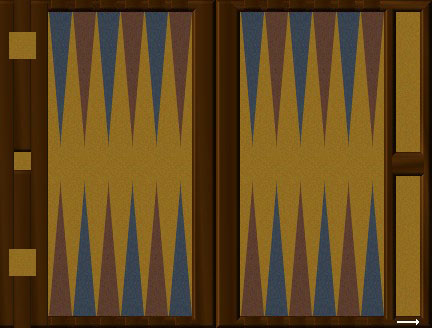
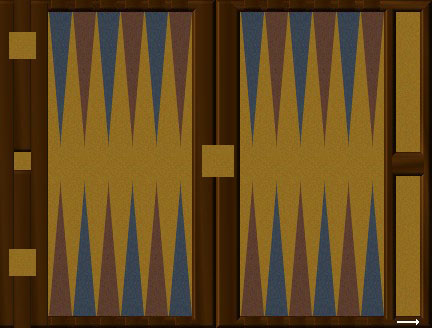
added match length in middle of board. commented previous code

Changed region(s): [[0.4514, 0.4268, 0.5417, 0.5488]]

diff --git a/InformationPanel.java b/InformationPanel.java
@@ -23,7 +23,7 @@ public class InformationPanel extends BorderPane
 	private GridPane grid = new GridPane();
 	private int gridSize = 0;
 	private ScrollBar scrollBar = new ScrollBar();
-	private Label[] labels = new Label[500];
+	private Label[] labels = new Label[1000];//stores all the messages that are printed to the panel
 
 	public InformationPanel() {
 
@@ -34,6 +34,7 @@ public class InformationPanel extends BorderPane
 		pane.setStyle("-fx-background-color:Wheat"); //background colour is set
 		pane.getChildren( ).addAll( canvas, grid, scrollBar);
 
+		//scrollbar used for navigating info panel when the number of lines of texts exceeds size of the panel
         scrollBar.setLayoutX(canvas.getWidth()-scrollBar.getWidth());
         scrollBar.setMin(0);
         scrollBar.setOrientation(Orientation.VERTICAL);
@@ -41,7 +42,9 @@ public class InformationPanel extends BorderPane
         scrollBar.setMax(656);
         scrollBar.setValue(0);
 
+        //scrollbar call
         scrollBar.valueProperty().addListener(e -> {
+            //only entered when more text than panel size
             if(gridSize < 33);
             else{
                 removeLabels();
@@ -53,8 +56,8 @@ public class InformationPanel extends BorderPane
 		setCenter(pane);
 		}
 	
-	/**addText method takes the text from the user and outputs it to the display using 
-	 * the position parameter to determine row to output the string
+	/**addText method takes the text from the user and outputs it to the top of the display
+	 * position is used for asking for the players' names
 	 * */
 	public void addText(int position, String text){
 
@@ -73,26 +76,12 @@ public class InformationPanel extends BorderPane
 		displayLabels();
 
         System.out.println(scrollBar.getValue());
-
-		/*GridPane.setConstraints(label, 0, position);
-		grid.getChildren().addAll(label);*/
-
-
-		//below was an attempt to style the code, will be revisited next sprint so it hasn't been deleted, just commented out
-		
-		// set the constraints 31 is the number i need to remember sorry ola :p
-		//Label label3 = new Label(text);
-		//Label label2 = new Label(" It is the next player's turn...Enter how many moves");
-		// setting the styles of the text being shown on the display panel
-        //label3.setStyle("-fx-background-color:Wheat; -fx-text-fill:Black; -fx-font-size:20");
-        //label2.setStyle("-fx-background-color:Yellow; -fx-text-fill:Black; -fx-font-size:20");
-
-		//GridPane.setConstraints(label2, 1, position);
-//		GridPane.setConstraint(label2, 1, position);
-		// add the child to the grid
 	}
 
+	//used to display all the labels on the panel with newest at the top and oldest at the bottom
+    //if there are more lines than the size of the panel the code then reacts to the scrollbar position
 	public void displayLabels(){
+	    //prints messaged for board with less labels than panel size
 	    if(gridSize < 31) {
             int numOfLabels = gridSize;
             int j = 0;
@@ -104,23 +93,23 @@ public class InformationPanel extends BorderPane
             }
         }
 
+	    //else statement is used to react to scrollbar
 	    else{
-            System.out.println("scrollbar.gerValue: " + scrollBar.getValue()/scrollBar.getMax());
+
             int startPoint, moveRight, moveLeft;
             double startPointDouble;
             startPointDouble = 1 - (scrollBar.getValue() / scrollBar.getMax());
             startPointDouble *= gridSize;
-            startPoint = (int) Math.round(startPointDouble);
+            startPoint = (int) Math.round(startPointDouble); //is a position in gridsize that corresponds to the position
+            //of the scrollbar i.e. if scrollbar is in the middle and gridsize was 50, startPoint would be 25
 
             moveLeft = startPoint - 15;
             moveRight = startPoint + 15;
             if (moveLeft < 0) {
                 moveRight += +(moveLeft * -1);
-                moveLeft = 0;
             }
 
             if (moveRight > gridSize - 1) {
-                moveLeft -= gridSize - moveRight;
                 moveRight = gridSize - 1;
             }
 

diff --git a/Board.java b/Board.java
@@ -45,7 +45,6 @@ import javafx.scene.paint.Color;
 
         //following grids are used for positioning
         private GridPane doubleCubeGrid = new GridPane();
-        private GridPane doubleCubeLabelGrid = new GridPane();
 
         private GridPane player1ScoreGrid = new GridPane();
         private GridPane player1NameGrid = new GridPane();
@@ -61,6 +60,9 @@ import javafx.scene.paint.Color;
 
         private Image doubleCube;
         private ImageView doubleCubeView;
+
+        private GridPane matchNumberGrid = new GridPane();
+        private Label matchNumberVisual = new Label();
 
 
     //label array is used when there's an excess number of pips on a point, 26 are made, one for each position
@@ -99,12 +101,30 @@ import javafx.scene.paint.Color;
         boardInitialize(); //call to method to initialize the board state
         drawNumbers();
 
-        sp.getChildren().addAll(topLeftGrid, topRightGrid, bottomLeftGrid, bottomRightGrid, barGrid, doubleCubeLabelGrid, player1NameGrid, player2NameGrid,
+        sp.getChildren().addAll(topLeftGrid, topRightGrid, bottomLeftGrid, bottomRightGrid, barGrid, player1NameGrid, player2NameGrid, matchNumberGrid,
                 topRightNumbers, topleftNumbers, bottomLeftNumbers, bottomRightNumbers, doubleCubeGrid, player1ScoreGrid, player2ScoreGrid, topBearOffGrid, bottomBearOffGrid);
         setCenter(sp);
     }
 
     private void boardInitialize(){
+
+        //labels used to set match number in center of board
+        Label matchNumberMatch = new Label(" Match");
+        matchNumberMatch.setTextFill(Color.web("white"));
+        Label matchNumberLength = new Label("Number");
+        matchNumberLength.setTextFill(Color.web("white"));
+        matchNumberVisual.setText(" 0");
+        matchNumberVisual.setTextFill(Color.web("black"));
+
+        matchNumberVisual.setStyle("-fx-font: normal bold 50px 'sans-serif' ");
+
+        GridPane.setConstraints(matchNumberMatch, 0, 0);
+        GridPane.setConstraints(matchNumberVisual, 0, 1);
+        GridPane.setConstraints(matchNumberLength, 0, 2);
+
+        matchNumberGrid.setPadding(new Insets(267, 0, 0, 408));
+        matchNumberGrid.setVgap(3);
+        matchNumberGrid.getChildren().addAll(matchNumberLength, matchNumberMatch, matchNumberVisual);
 
         //doubleCube is initialised as the 64 cube
         doubleCube = new Image(getClass().getResourceAsStream("double64.jpg"));
@@ -1073,5 +1093,14 @@ import javafx.scene.paint.Color;
     public void clearBearOff(){
             topBearOffGrid.getChildren().clear();
             bottomBearOffGrid.getChildren().clear();
-        }
+    }
+
+    //sets match number
+    public void setMatchNumber(int matchNumber){
+        if(matchNumber < 10) matchNumberVisual.setText(" " + matchNumber);
+        else matchNumberVisual.setText("" + matchNumber);
+    }
+
+
+
 }
